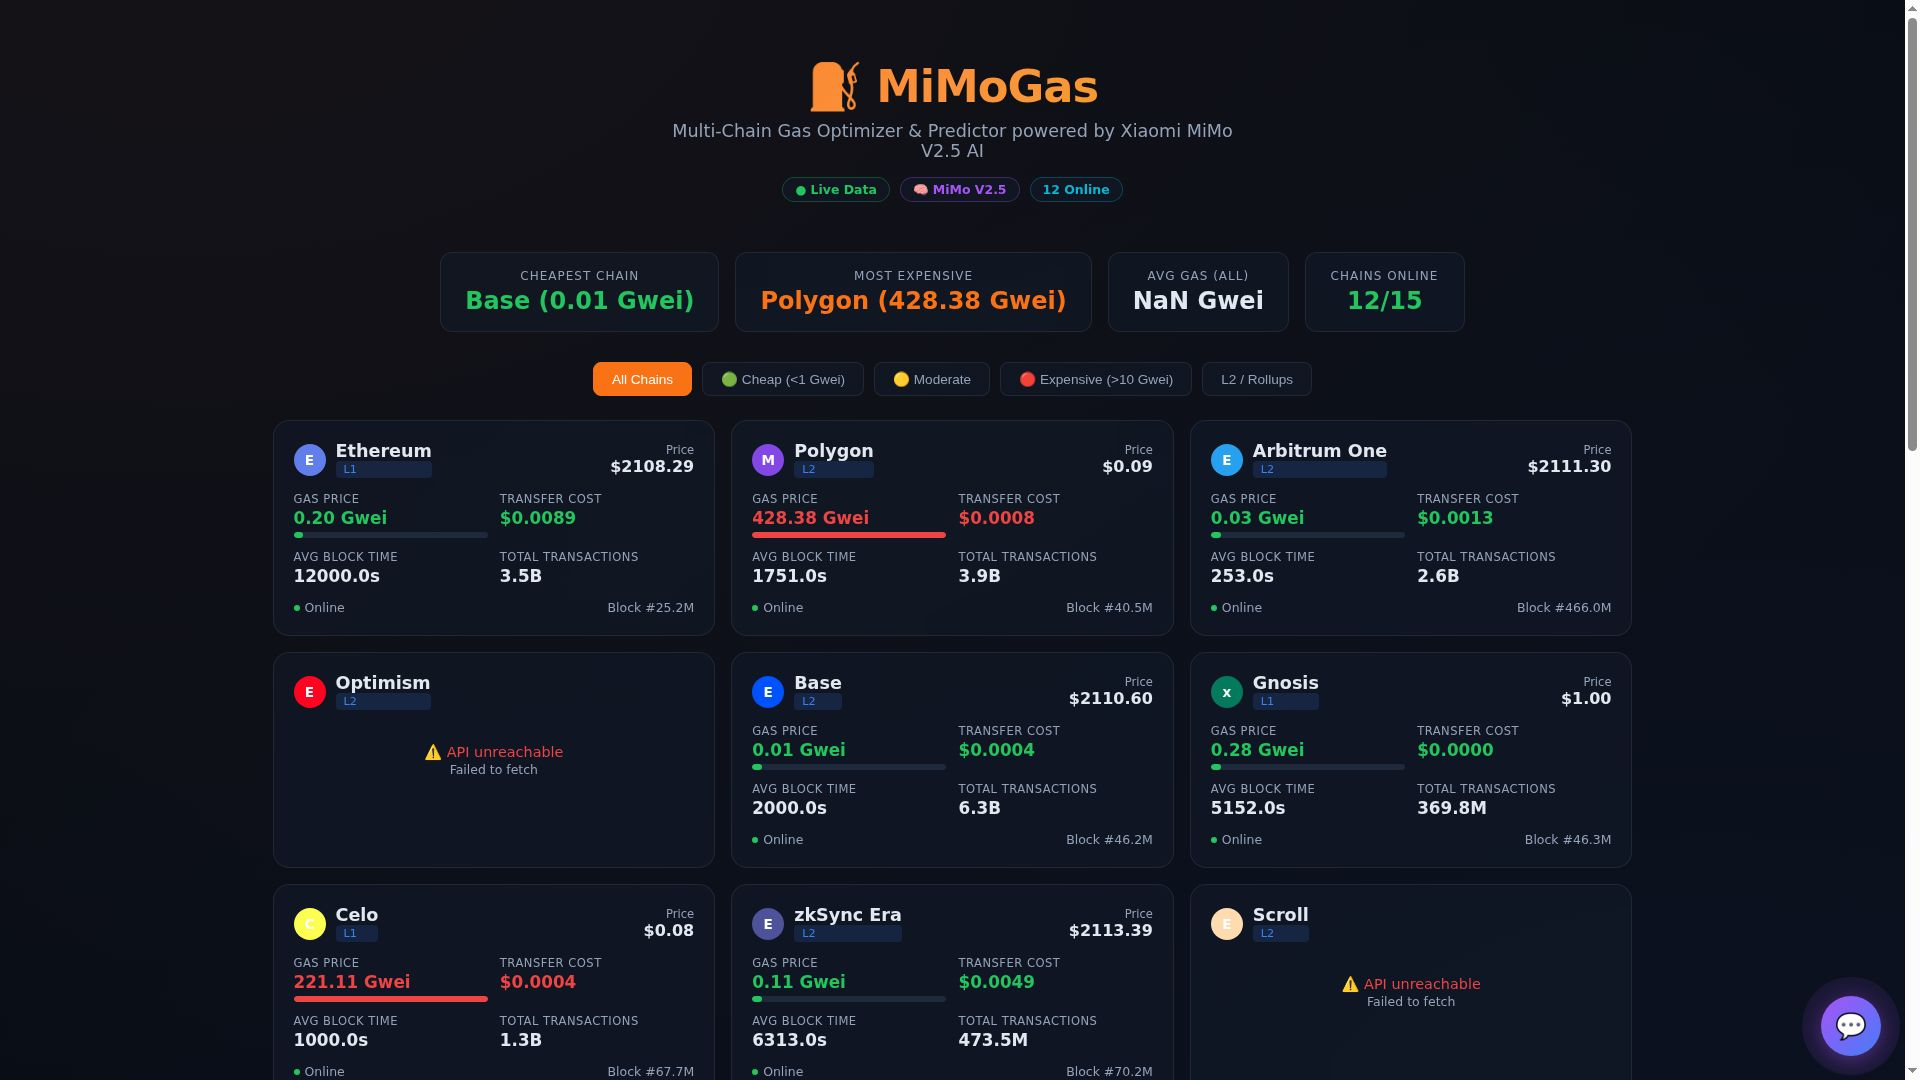
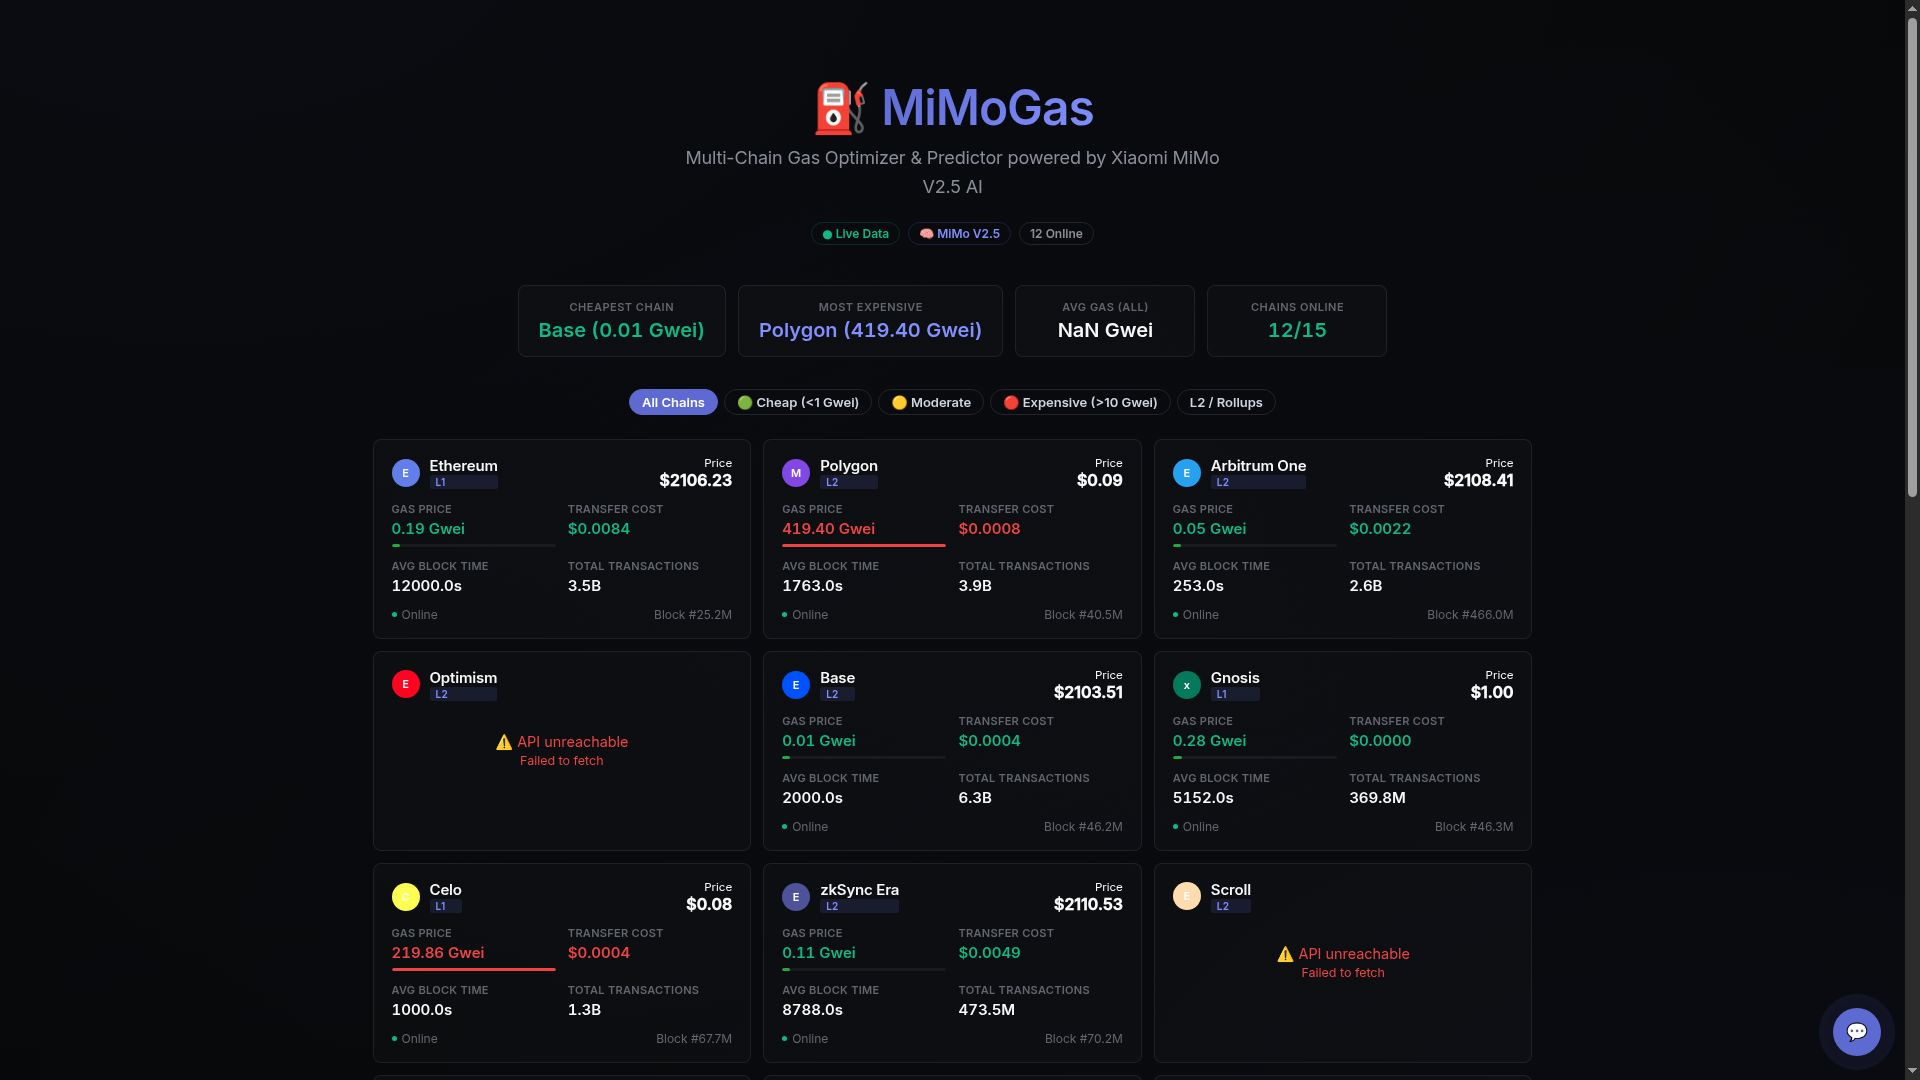
fix: robust hex parsing for RPC responses, prevent NaN

diff --git a/index.html b/index.html
@@ -329,17 +329,15 @@ function parseGasPrice(chain, data) {
     return gwei;
   }
   // Etherscan-compatible returns {result: '0x...'} in wei OR text error
-  if (data.result) {
-    if (typeof data.result === 'string' && data.result.startsWith('0x')) {
-      const wei = parseInt(data.result, 16);
-      return wei / 1e9; // wei → Gwei
-    }
-    // Deprecated API message fallback
-    return 0;
-  }
   // JSON-RPC returns {jsonrpc, id, result: '0x...'}
-  if (data.jsonrpc && data.result) {
-    return parseInt(data.result, 16) / 1e9;
+  if (data.result !== undefined && data.result !== null) {
+    const r = String(data.result); // Force string
+    if (r.startsWith('0x')) {
+      const wei = parseInt(r, 16);
+      if (!isNaN(wei)) return wei / 1e9; // wei → Gwei
+    }
+    // Deprecated API message or non-hex response
+    return 0;
   }
   return 0;
 }

diff --git a/check_chains.py b/check_chains.py
@@ -1,0 +1,25 @@
+#!/usr/bin/env python3
+import asyncio, nodriver as uc
+
+async def check():
+    b = await uc.start(headless=True, browser_args=['--window-size=1920,1080','--no-sandbox','--disable-gpu'])
+    p = await b.get('https://gyoomei.github.io/mimogas/')
+    await p.send(uc.cdp.emulation.set_device_metrics_override(width=1920, height=1080, device_scale_factor=1, mobile=False))
+    await p.sleep(10)
+    
+    # Check chains
+    result = await p.evaluate('''
+        Array.from(document.querySelectorAll(".chain-card")).map(c => {
+            const title = c.querySelector(".chain-title")?.textContent || "?";
+            const hasError = c.textContent.includes("unreachable");
+            const gasEl = c.querySelectorAll(".data-value")[0];
+            const gas = gasEl ? gasEl.textContent.trim() : "no data";
+            return (hasError ? "❌" : "✅") + " " + title + ": " + (hasError ? "FAILED" : gas);
+        }).join("\\n")
+    ''')
+    print(result)
+    
+    await p.save_screenshot('/home/ubuntu/mimogas/screenshots/fix_check.png')
+    b.stop()
+
+asyncio.run(check())